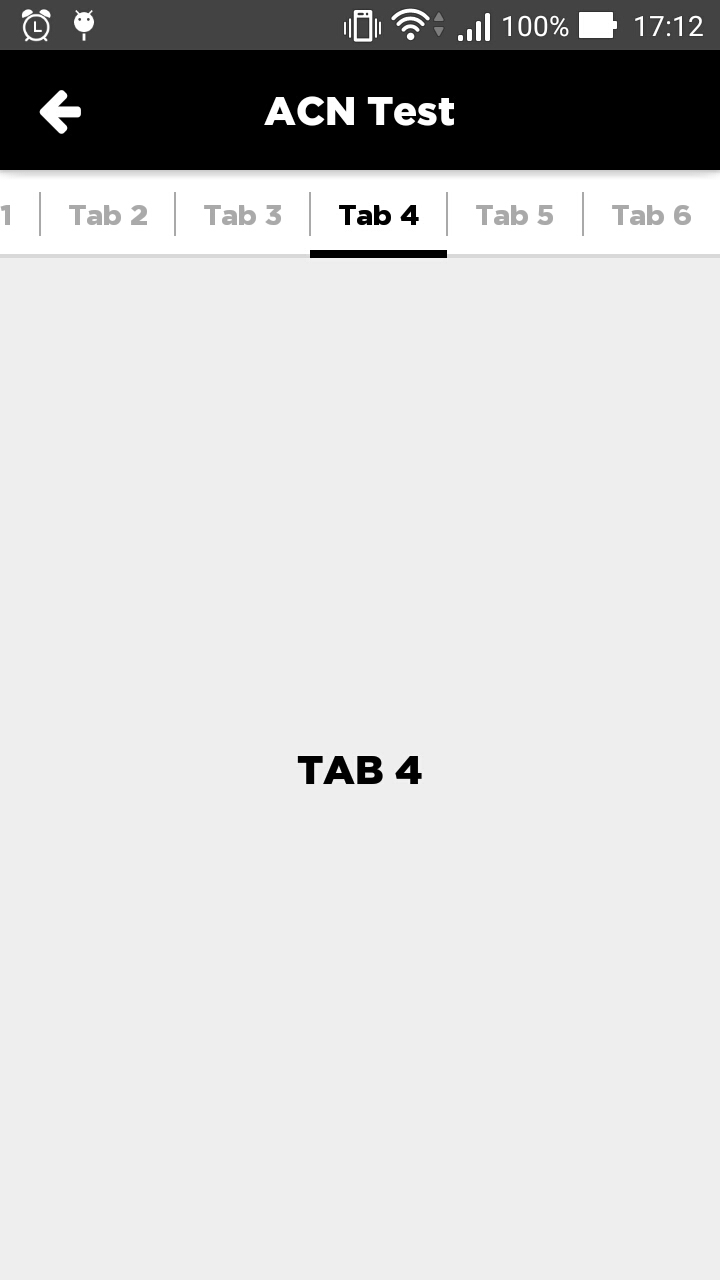
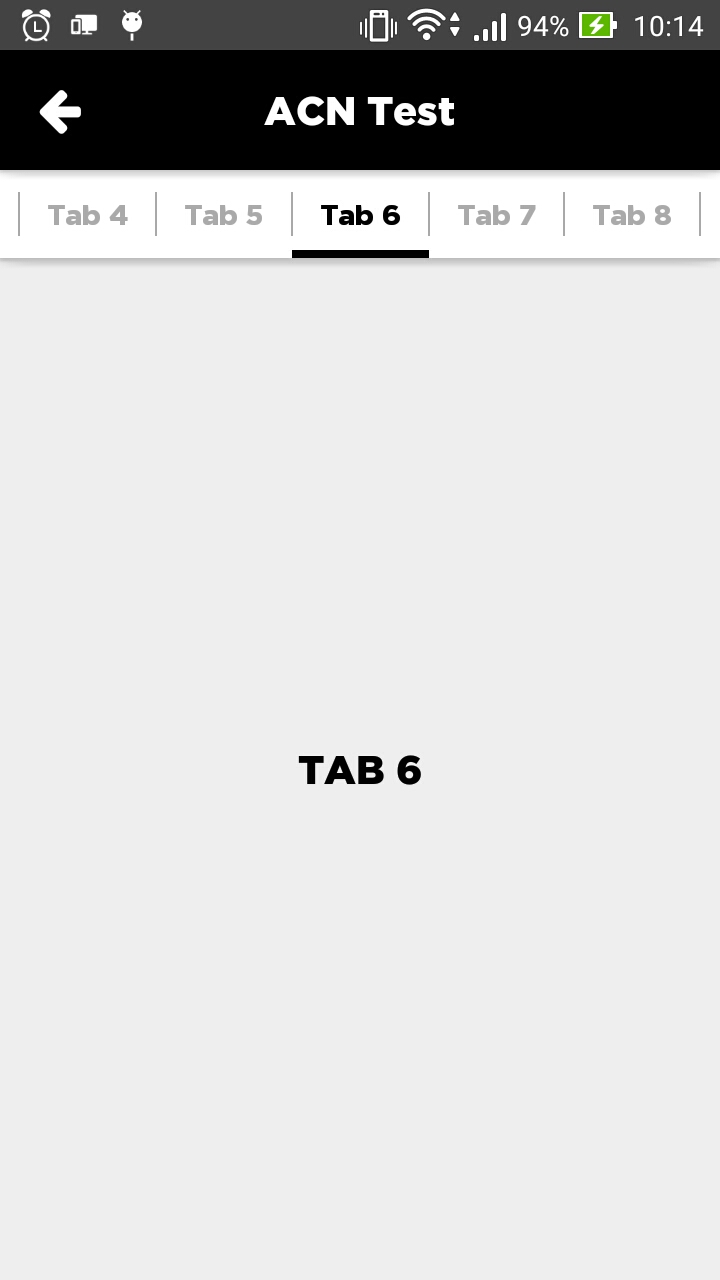
viewpager update

diff --git a/acnandroid/src/main/java/com/accenture/android/framework/view/AcnViewPager.java b/acnandroid/src/main/java/com/accenture/android/framework/view/AcnViewPager.java
@@ -1,6 +1,9 @@
 package com.accenture.android.framework.view;
 
 import android.content.Context;
+import android.content.res.ColorStateList;
+import android.content.res.TypedArray;
+import android.graphics.Color;
 import android.support.v4.app.Fragment;
 import android.support.v4.view.ViewPager;
 import android.support.v7.app.AppCompatActivity;
@@ -27,6 +30,10 @@ public class AcnViewPager extends RelativeLayout {
 
     private ViewPagerAdapter viewPagerAdapter;
 
+    private int indicatorColor;
+    private int dividerColor;
+    private ColorStateList textColorStateList;
+
     public AcnViewPager(Context context) {
         super(context);
         this.init(context, null);
@@ -50,11 +57,39 @@ public class AcnViewPager extends RelativeLayout {
         slidingTabLayout = (SlidingTabLayout) view.findViewById(R.id.slidingTabLayout);
         viewPager = (ViewPager) view.findViewById(R.id.viewPager);
 
-        /*if(attrs != null) {
-            TypedArray a = context.getTheme().obtainStyledAttributes(attrs, R.styleable.AcnImagePager, 0, 0);
+        if(attrs != null) {
+            TypedArray a = context.getTheme().obtainStyledAttributes(attrs, R.styleable.AcnViewPager, 0, 0);
 
+            try {
+                //TAB BACKGROUND COLOR
+                int tabBackgroundColor = a.getColor(R.styleable.AcnViewPager_tabBackgroundColor, getResources().getColor(android.R.color.white));
+                slidingTabLayout.setBackgroundColor(tabBackgroundColor);
 
-        }*/
+                //INDICATOR COLOR
+                indicatorColor = a.getColor(R.styleable.AcnViewPager_indicatorColor, getResources().getColor(android.R.color.black));
+
+                //DIVIDER COLOR
+                dividerColor = a.getColor(R.styleable.AcnViewPager_dividerColor, getResources().getColor(android.R.color.darker_gray));
+
+                //TEXT COLOR
+                int selectedTitleColor = a.getColor(R.styleable.AcnViewPager_selectedTitleColor, getResources().getColor(android.R.color.black));
+                int unselectedTitleColor = a.getColor(R.styleable.AcnViewPager_unselectedTitleColor, getResources().getColor(android.R.color.darker_gray));
+
+                int[][] states = new int[][] {
+                        new int[] {android.R.attr.state_selected},
+                        new int[] {-android.R.attr.state_selected}
+                };
+                int[] colors = new int[] {
+                        selectedTitleColor,
+                        unselectedTitleColor
+                };
+                textColorStateList = new ColorStateList(states, colors);
+
+            } finally {
+                a.recycle();
+            }
+
+        }
 
     }
 
@@ -67,14 +102,14 @@ public class AcnViewPager extends RelativeLayout {
         slidingTabLayout.setCustomTabColorizer(new SlidingTabLayout.TabColorizer() {
             @Override
             public int getIndicatorColor(int position) {
-                return getResources().getColor(android.R.color.black);
+                return indicatorColor;
             }
             @Override
             public int getDividerColor(int position) {
-                return getResources().getColor(android.R.color.darker_gray);
+                return dividerColor;
             }
         });
-        slidingTabLayout.setViewPager(viewPager);
+        slidingTabLayout.setViewPager(viewPager, textColorStateList);
 
     }
 

diff --git a/acnandroid/src/main/java/com/accenture/android/framework/view/AcnImagePager.java b/acnandroid/src/main/java/com/accenture/android/framework/view/AcnImagePager.java
@@ -63,20 +63,24 @@ public class AcnImagePager extends RelativeLayout {
         if(attrs != null) {
             TypedArray a = context.getTheme().obtainStyledAttributes(attrs, R.styleable.AcnImagePager, 0, 0);
 
-            //INDICATOR COLOR
-            selectedIndicatorColor = a.getColor(R.styleable.AcnImagePager_selectedIndicatorColor, getResources().getColor(android.R.color.black));
-            unselectedIndicatorColor = a.getColor(R.styleable.AcnImagePager_unselectedIndicatorColor, getResources().getColor(android.R.color.darker_gray));
+            try {
+                //INDICATOR COLOR
+                selectedIndicatorColor = a.getColor(R.styleable.AcnImagePager_selectedIndicatorColor, getResources().getColor(android.R.color.black));
+                unselectedIndicatorColor = a.getColor(R.styleable.AcnImagePager_unselectedIndicatorColor, getResources().getColor(android.R.color.darker_gray));
 
-            //INDICATOR SIZE
-            float eightDpInPixels = TypedValue.applyDimension(TypedValue.COMPLEX_UNIT_DIP, 8, getResources().getDisplayMetrics());
-            float sixDpInPixels = TypedValue.applyDimension(TypedValue.COMPLEX_UNIT_DIP, 6, getResources().getDisplayMetrics());
-            selectedIndicatorSize = (int) a.getDimension(R.styleable.AcnImagePager_selectedIndicatorSize, eightDpInPixels);
-            unselectedIndicatorSize = (int) a.getDimension(R.styleable.AcnImagePager_unselectedIndicatorSize, sixDpInPixels);
+                //INDICATOR SIZE
+                float eightDpInPixels = TypedValue.applyDimension(TypedValue.COMPLEX_UNIT_DIP, 8, getResources().getDisplayMetrics());
+                float sixDpInPixels = TypedValue.applyDimension(TypedValue.COMPLEX_UNIT_DIP, 6, getResources().getDisplayMetrics());
+                selectedIndicatorSize = (int) a.getDimension(R.styleable.AcnImagePager_selectedIndicatorSize, eightDpInPixels);
+                unselectedIndicatorSize = (int) a.getDimension(R.styleable.AcnImagePager_unselectedIndicatorSize, sixDpInPixels);
 
-            //INDICATOR BOTTOM MARGIN
-            float twentyDpInPixels = TypedValue.applyDimension(TypedValue.COMPLEX_UNIT_DIP, 20, getResources().getDisplayMetrics());
-            int bottomMargin = (int) a.getDimension(R.styleable.AcnImagePager_indicatorBottomMargin, twentyDpInPixels);
-            pagerIndicator.setPadding(0, 0, 0, bottomMargin);
+                //INDICATOR BOTTOM MARGIN
+                float twentyDpInPixels = TypedValue.applyDimension(TypedValue.COMPLEX_UNIT_DIP, 20, getResources().getDisplayMetrics());
+                int bottomMargin = (int) a.getDimension(R.styleable.AcnImagePager_indicatorBottomMargin, twentyDpInPixels);
+                pagerIndicator.setPadding(0, 0, 0, bottomMargin);
+            } finally {
+                a.recycle();
+            }
         }
 
     }

diff --git a/acnandroid/src/main/java/com/accenture/android/framework/helper/SlidingTabLayout.java b/acnandroid/src/main/java/com/accenture/android/framework/helper/SlidingTabLayout.java
@@ -17,6 +17,7 @@
 package com.accenture.android.framework.helper;
 
 import android.content.Context;
+import android.content.res.ColorStateList;
 import android.graphics.Typeface;
 import android.os.Build;
 import android.support.v4.view.PagerAdapter;
@@ -42,7 +43,7 @@ import com.accenture.android.framework.util.Config;
  * <p>
  * To use the component, simply add it to your view hierarchy. Then in your
  * {@link android.app.Activity} or {@link android.support.v4.app.Fragment} call
- * {@link #setViewPager(ViewPager)} providing it the ViewPager this layout is being used for.
+ * {@link #setViewPager(ViewPager, int)} providing it the ViewPager this layout is being used for.
  * <p>
  * The colors can be customized in two ways. The first and simplest is to provide an array of colors
  * via {@link #setSelectedIndicatorColors(int...)} and {@link #setDividerColors(int...)}. The
@@ -167,13 +168,13 @@ public class SlidingTabLayout extends HorizontalScrollView {
      * Sets the associated view pager. Note that the assumption here is that the pager content
      * (number of tabs and tab titles) does not change after this call has been made.
      */
-    public void setViewPager(ViewPager viewPager) {
+    public void setViewPager(ViewPager viewPager, ColorStateList textColorStateList) {
         mTabStrip.removeAllViews();
 
         mViewPager = viewPager;
         if (viewPager != null) {
             viewPager.setOnPageChangeListener(new InternalViewPagerListener());
-            populateTabStrip();
+            populateTabStrip(textColorStateList);
         }
     }
 
@@ -208,7 +209,7 @@ public class SlidingTabLayout extends HorizontalScrollView {
         return textView;
     }
 
-    private void populateTabStrip() {
+    private void populateTabStrip(ColorStateList textColorStateList) {
         final PagerAdapter adapter = mViewPager.getAdapter();
         final View.OnClickListener tabClickListener = new TabClickListener();
 
@@ -246,7 +247,7 @@ public class SlidingTabLayout extends HorizontalScrollView {
 
             tabTitleView.setHorizontalFadingEdgeEnabled(true);
             tabTitleView.setTypeface(Typeface.createFromAsset(getContext().getAssets(), "fonts/" + Config.appFont));
-            tabTitleView.setTextColor(getResources().getColorStateList(R.color.tab_selector));
+            tabTitleView.setTextColor(textColorStateList);
 
             /*WindowManager wm = (WindowManager) getContext().getSystemService(Context.WINDOW_SERVICE);
             Display display = wm.getDefaultDisplay();

diff --git a/acnandroid/src/main/java/com/accenture/android/framework/helper/SlidingTabStrip.java b/acnandroid/src/main/java/com/accenture/android/framework/helper/SlidingTabStrip.java
@@ -28,7 +28,7 @@ import android.widget.LinearLayout;
 
 class SlidingTabStrip extends LinearLayout {
 
-    private static final int DEFAULT_BOTTOM_BORDER_THICKNESS_DIPS = 2;
+    private static final int DEFAULT_BOTTOM_BORDER_THICKNESS_DIPS = 0;
     private static final byte DEFAULT_BOTTOM_BORDER_COLOR_ALPHA = 0x26;
     private static final int SELECTED_INDICATOR_THICKNESS_DIPS = 4;
     private static final int DEFAULT_SELECTED_INDICATOR_COLOR = 0xFF33B5E5;

diff --git a/test/src/main/java/com/accenture/android/test/ViewPagerActivity.java b/test/src/main/java/com/accenture/android/test/ViewPagerActivity.java
@@ -28,7 +28,7 @@ public class ViewPagerActivity extends AcnActivity {
         ArrayList<String> tabTitles = new ArrayList<>();
         ArrayList<Fragment> fragments = new ArrayList<>();
 
-        for(int i=1; i<=6; i++){
+        for(int i=1; i<=10; i++){
             tabTitles.add("Tab " + i);
 
             Bundle bundle = new Bundle();

diff --git a/README.md b/README.md
@@ -99,6 +99,12 @@ The following classes can be found under `view` package:
     - ViewPager
 - Set fragments and tab titles with one line of code:
     - `acn_viewpager.setContent(fragments, tabTitles);`
+- Custom XML attributes:
+    - `indicatorColor` (color)
+    - `dividerColor` (color)
+    - `selectedTitleColor` (color)
+    - `unselectedTitleColor` (color)
+    - `tabBackgroundColor` (color)
 - [Screenshot](/screenshots/AcnViewPager.jpg)
 
 #### <a name="acnimagegallery"></a>AcnImageGallery (extends LinearLayout)
